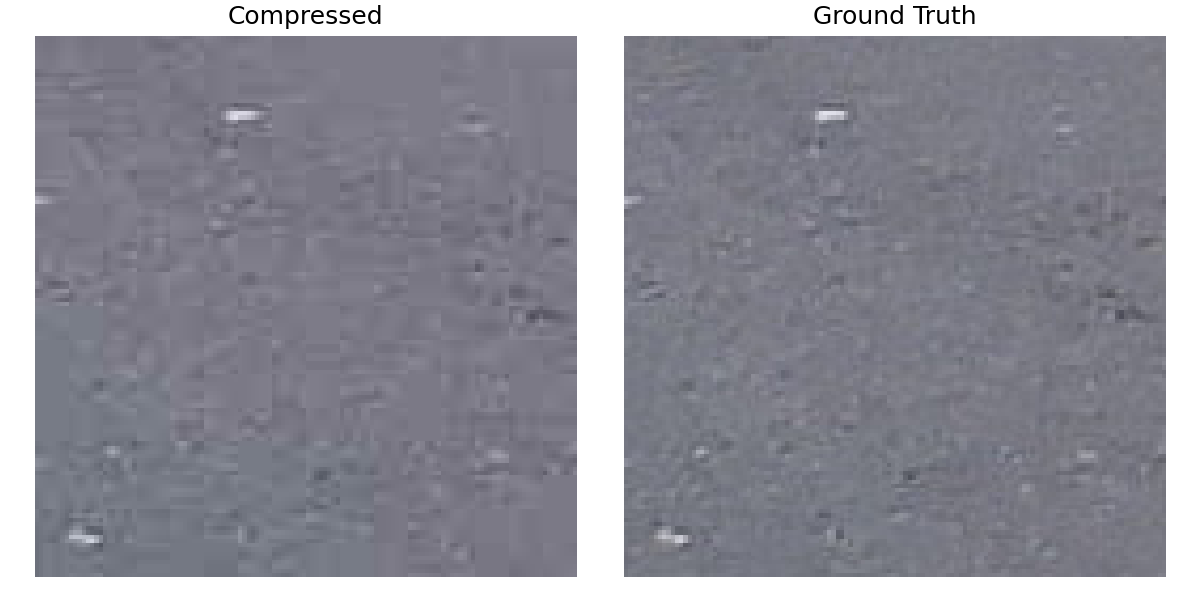
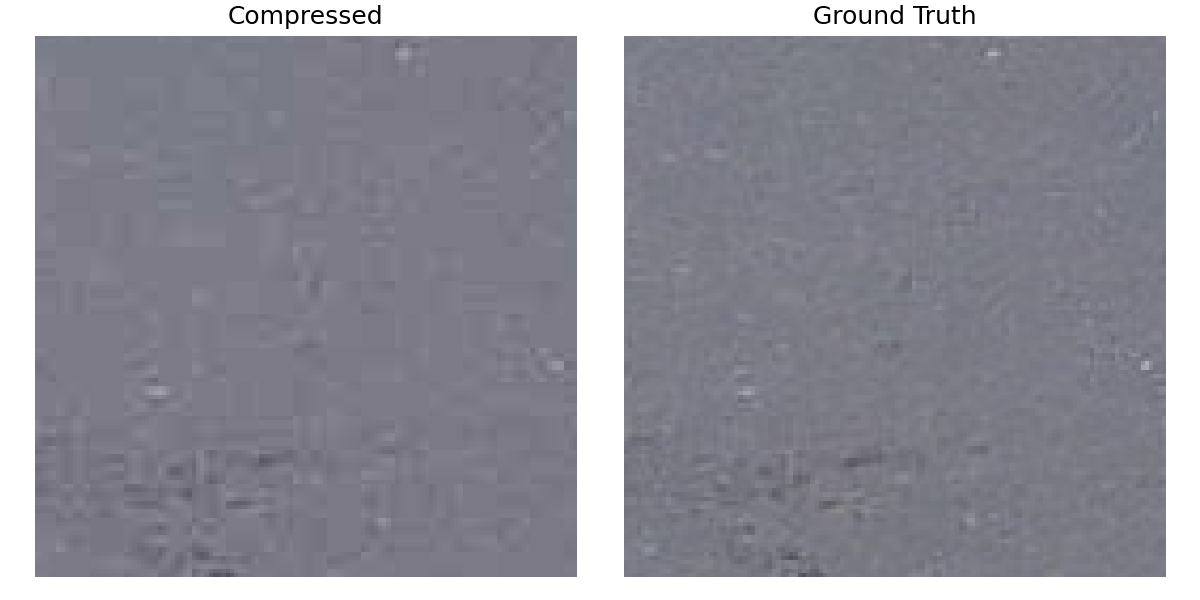
training run #1 edits

diff --git a/src/train.py b/src/train.py
@@ -32,8 +32,8 @@ def run_training(cfg: DictConfig, run: wandb.Run) -> None:
     train_ds = DF2KDataset(root_dir=df2k_cfg.train_dir, train=True)
     val_ds = DF2KDataset(root_dir=df2k_cfg.val_dir, train=False)
 
-    train_loader = DataLoader(train_ds, batch_size=train_cfg.batch_size, shuffle=True, num_workers=8, pin_memory=True, persistent_workers=True, prefetch_factor=4)
-    val_loader = DataLoader(val_ds, batch_size=train_cfg.batch_size, shuffle=False, num_workers=8, pin_memory=True, persistent_workers=True, prefetch_factor=4)
+    train_loader = DataLoader(train_ds, batch_size=train_cfg.batch_size, shuffle=True, num_workers=8, pin_memory=True, prefetch_factor=4)
+    val_loader = DataLoader(val_ds, batch_size=train_cfg.batch_size, shuffle=False, num_workers=2, pin_memory=True)
 
     # 2. model
     model = MODELS[cfg.model]().to(device)
@@ -62,7 +62,7 @@ def run_training(cfg: DictConfig, run: wandb.Run) -> None:
             loss_qf = criterion(q_pred, q_target)
             loss = loss_rec + 0.1 * loss_qf
 
-            if torch.isnan(loss) or loss.item() > 1000.0:
+            if torch.isnan(loss) or loss.item() > 1.0:
                 print("Unstable step detected. Skipping batch.")
                 torch.save(compressed, "bad_batch.pt")
                 continue

diff --git a/src/utils.py b/src/utils.py
@@ -1,5 +1,7 @@
-import io
 from PIL import Image
+
+import cv2
+import numpy as np
 
 import matplotlib.pyplot as plt
 import torchvision.transforms.functional as F
@@ -7,12 +9,14 @@ import torchvision.transforms.functional as F
 import torch
 
 
+def numpy_jpeg_compress(img_rgb, quality):
+    img_bgr = cv2.cvtColor(img_rgb, cv2.COLOR_RGB2BGR)
+    _, encimg = cv2.imencode('.jpg', img_bgr, [cv2.IMWRITE_JPEG_QUALITY, quality])
+    return cv2.cvtColor(cv2.imdecode(encimg, cv2.IMREAD_COLOR), cv2.COLOR_BGR2RGB)
+
+
 def jpeg_compress(img, quality):
-    buf = io.BytesIO()
-    img.save(buf, format="JPEG", quality=quality)
-    compressed = Image.open(buf)
-    compressed.load()
-    return compressed
+    return Image.fromarray(numpy_jpeg_compress(np.array(img.convert("RGB")), quality))
 
 
 def visualize(model, batch, device):
